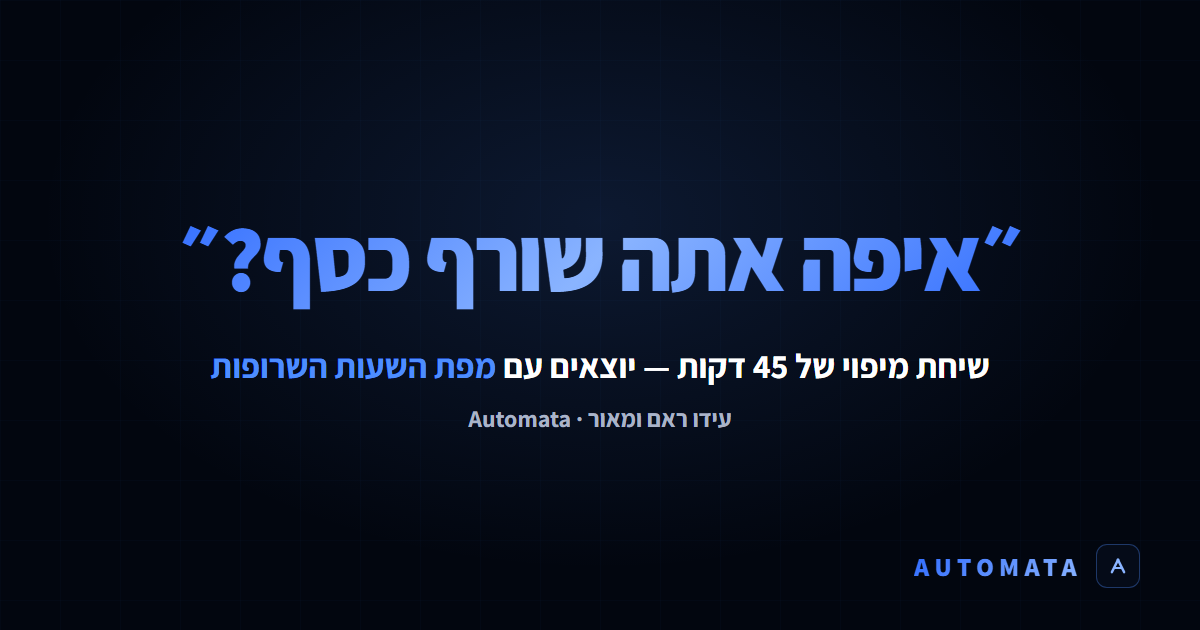
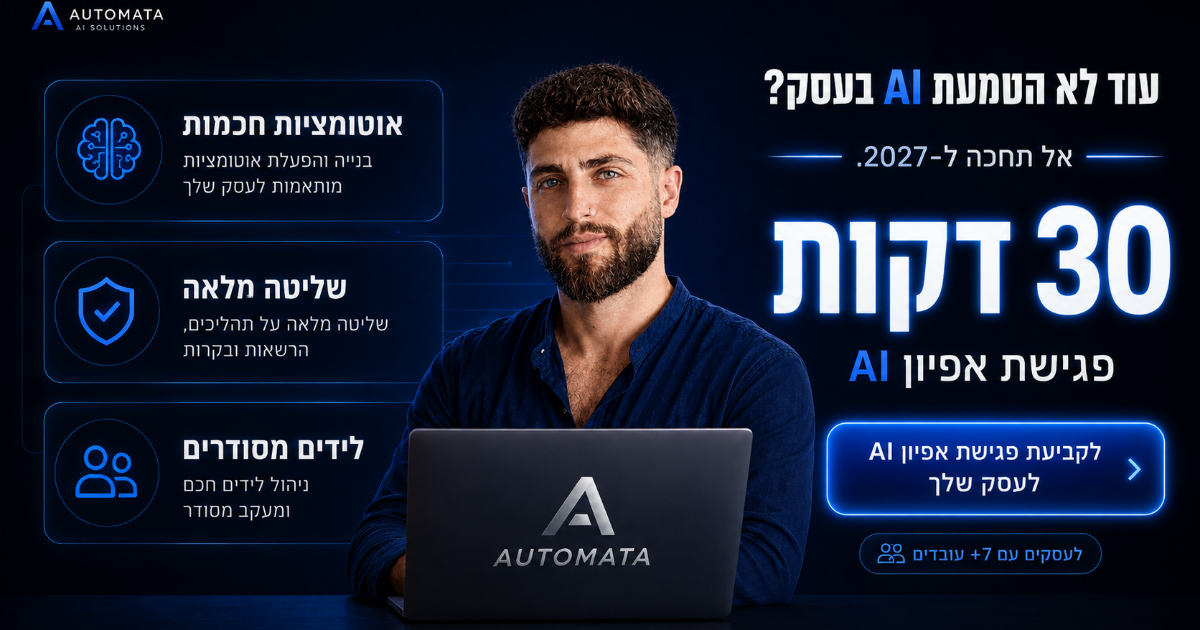
Add real hero creative to both pages; align copy to 30 minutes; new OG from creative

diff --git a/components/MockupSlot.tsx b/components/MockupSlot.tsx
@@ -1,79 +1,20 @@
+import Image from "next/image";
+import mockup from "@/assets/mockup.png";
+
 /**
- * השטח השמור למוקאפ של עידו.
- *
- * כשהמוקאפ מוכן:
- * 1. שים את הקובץ ב-public/mockup.webp (או png/jpg)
- * 2. שנה את MOCKUP_SRC למטה ל-"/mockup.webp"
- * זהו. שאר הדף לא משתנה.
+ * תמונת הנושא בהירו — נטענת בעדיפות (LCP) עם בלר-אפ,
+ * ומוגשת אוטומטית בגודל ובפורמט אופטימליים ע"י Vercel.
+ * להחלפת התמונה: פשוט מחליפים את הקובץ assets/mockup.png.
  */
-import FlowViz from "./FlowViz";
-
-const MOCKUP_SRC: string | null = null;
-
 export default function MockupSlot() {
-  if (MOCKUP_SRC) {
-    return (
-      <img
-        src={MOCKUP_SRC}
-        alt="עידו ראם — Automata"
-        style={{ width: "100%", height: "auto", display: "block" }}
-      />
-    );
-  }
-
-  // מצב ביניים מעוצב עד שהמוקאפ נכנס — נראה מכוון גם אם הדף עולה לפני התמונה
   return (
-    <div
-      style={{
-        aspectRatio: "16 / 10",
-        position: "relative",
-        display: "flex",
-        flexDirection: "column",
-        alignItems: "center",
-        justifyContent: "center",
-        gap: 14,
-        background:
-          "radial-gradient(ellipse 420px 260px at 50% 40%, rgba(77, 141, 255, 0.14) 0%, transparent 70%), linear-gradient(180deg, #060d1c 0%, #030711 100%)",
-        overflow: "hidden",
-      }}
-    >
-      <div
-        aria-hidden
-        style={{
-          position: "absolute",
-          inset: 0,
-          backgroundImage:
-            "linear-gradient(rgba(77, 141, 255, 0.05) 1px, transparent 1px), linear-gradient(90deg, rgba(77, 141, 255, 0.05) 1px, transparent 1px)",
-          backgroundSize: "40px 40px",
-        }}
-      />
-      <FlowViz />
-      <span
-        style={{
-          position: "relative",
-          fontSize: "clamp(1.6rem, 4vw, 2.6rem)",
-          fontWeight: 800,
-          letterSpacing: "0.22em",
-          background:
-            "linear-gradient(135deg, #2f6bff 0%, #8ab4ff 50%, #2f6bff 100%)",
-          WebkitBackgroundClip: "text",
-          WebkitTextFillColor: "transparent",
-          backgroundClip: "text",
-          paddingInlineStart: "0.22em",
-        }}
-      >
-        AUTOMATA
-      </span>
-      <span
-        style={{
-          position: "relative",
-          color: "#aab4c8",
-          fontSize: "clamp(0.85rem, 1.6vw, 1rem)",
-          fontWeight: 600,
-        }}
-      >
-        ארכיטקטורה טכנולוגית לעסקים
-      </span>
-    </div>
+    <Image
+      src={mockup}
+      alt="עידו ראם — פגישת אפיון AI של 30 דקות לעסק שלך | Automata"
+      priority
+      placeholder="blur"
+      sizes="(max-width: 900px) 92vw, 680px"
+      style={{ width: "100%", height: "auto", display: "block" }}
+    />
   );
 }

diff --git a/components/ThanksImageSlot.tsx b/components/ThanksImageSlot.tsx
@@ -1,68 +1,18 @@
+import Image from "next/image";
+import mockup from "@/assets/mockup.png";
+
 /**
- * השטח השמור לתמונת דף התודה.
- *
- * כשהתמונה מוכנה:
- * 1. שים את הקובץ ב-public/thanks.webp (או png/jpg)
- * 2. שנה את THANKS_SRC למטה ל-"/thanks.webp"
+ * תמונת דף התודה — אותה תמונת נושא.
+ * להחלפה בתמונה ייעודית: מוסיפים קובץ ל-assets ומעדכנים את ה-import.
  */
-import FlowViz from "./FlowViz";
-
-const THANKS_SRC: string | null = null;
-
 export default function ThanksImageSlot({ alt }: { alt: string }) {
-  if (THANKS_SRC) {
-    return (
-      <img
-        src={THANKS_SRC}
-        alt={alt}
-        style={{ width: "100%", height: "auto", display: "block" }}
-      />
-    );
-  }
-
   return (
-    <div
-      style={{
-        aspectRatio: "16 / 9",
-        position: "relative",
-        display: "flex",
-        flexDirection: "column",
-        alignItems: "center",
-        justifyContent: "center",
-        gap: 12,
-        background:
-          "radial-gradient(ellipse 480px 280px at 50% 40%, rgba(77, 141, 255, 0.16) 0%, transparent 70%), linear-gradient(180deg, #060d1c 0%, #030711 100%)",
-        overflow: "hidden",
-      }}
-    >
-      <div
-        aria-hidden
-        style={{
-          position: "absolute",
-          inset: 0,
-          backgroundImage:
-            "linear-gradient(rgba(77, 141, 255, 0.05) 1px, transparent 1px), linear-gradient(90deg, rgba(77, 141, 255, 0.05) 1px, transparent 1px)",
-          backgroundSize: "40px 40px",
-        }}
-      />
-      <FlowViz />
-      {/* בלי שורת הסלוגן — היא כבר מופיעה בפוטר שמתחת, שלא תהיה כפילות */}
-      <span
-        style={{
-          position: "relative",
-          fontSize: "clamp(1.4rem, 3.5vw, 2.2rem)",
-          fontWeight: 800,
-          letterSpacing: "0.22em",
-          background:
-            "linear-gradient(135deg, #2f6bff 0%, #8ab4ff 50%, #2f6bff 100%)",
-          WebkitBackgroundClip: "text",
-          WebkitTextFillColor: "transparent",
-          backgroundClip: "text",
-          paddingInlineStart: "0.22em",
-        }}
-      >
-        AUTOMATA
-      </span>
-    </div>
+    <Image
+      src={mockup}
+      alt={alt}
+      placeholder="blur"
+      sizes="(max-width: 900px) 92vw, 1040px"
+      style={{ width: "100%", height: "auto", display: "block" }}
+    />
   );
 }

diff --git a/lib/copy.ts b/lib/copy.ts
@@ -5,13 +5,13 @@ export const copy = {
   offerName: "מפת השעות השרופות",
   title: "מפת השעות השרופות | Automata",
   metaDescription:
-    "אתה משלם משכורות מלאות — וחלק מהן נשרפות על משימות של 2018. 45 דקות עם עידו ומאור, ויוצאים עם מפת השעות השרופות של העסק שלך. בלי עלות ובלי התחייבות.",
+    "אתה משלם משכורות מלאות — וחלק מהן נשרפות על משימות של 2018. 30 דקות עם עידו ומאור, ויוצאים עם מפת השעות השרופות של העסק שלך. בלי עלות ובלי התחייבות.",
   hero: {
     h1: "״איפה אתה שורף כסף?״",
     sub: "יש לך כמה עובדים.\nאתה משלם משכורות מלאות.\nוחלק מהן נשרפות\nעל משימות של 2018.",
     subHighlight: "משימות של 2018",
     parenthetical:
-      "(45 דקות עם עידו ראם, מייסד Automata, ומאור — הגאון הטכני שבונה את המערכות. יוצאים עם מפת השעות השרופות שלך.)",
+      "(30 דקות עם עידו ראם, מייסד Automata, ומאור — הגאון הטכני שבונה את המערכות. יוצאים עם מפת השעות השרופות שלך.)",
     cta: "קבעו לי שיחת מיפוי",
     microcopy: "מפה ביד. לא מצגת מכירה.",
   },
@@ -19,7 +19,7 @@ export const copy = {
     h2line1: "הצוות שלך עובד קשה.",
     h2line2: "השאלה על מה.",
     subtext:
-      "משאיר פרטים — חוזרים אליך בוואטסאפ.\nקובעים שיחת מיפוי: 45 דקות עם עידו ומאור.\nבשיחה מוצאים איפה העסק שלך מאבד שעות וכסף,\nואתה יוצא עם מפה ברורה — מה לתקן, ומה קודם.",
+      "משאיר פרטים — חוזרים אליך בוואטסאפ.\nקובעים שיחת מיפוי: 30 דקות עם עידו ומאור.\nבשיחה מוצאים איפה העסק שלך מאבד שעות וכסף,\nואתה יוצא עם מפה ברורה — מה לתקן, ומה קודם.",
     preCard:
       "כל חודש שעובר — עוד משכורות נשרפות על משימות של 2018.",
     submit: "קבעו לי שיחת מיפוי ←",

diff --git a/app/globals.css b/app/globals.css
@@ -28,40 +28,24 @@ body {
   color: #ffffff;
 }
 
-/* ויזואל זרימת האוטומציה בסלוטים השמורים */
-@keyframes dash-flow {
-  to {
-    stroke-dashoffset: -64;
-  }
+/* תמונת ההירו — ריחוף עדין שמסמן שהיא לחיצה */
+.mockup-link {
+  display: block;
+  cursor: pointer;
+  transition: transform 0.35s cubic-bezier(0.22, 1, 0.36, 1);
 }
 
-.flow-line {
-  stroke-dasharray: 6 10;
-  animation: dash-flow 3.2s linear infinite;
-}
-
-@keyframes node-pulse {
-  0%,
-  100% {
-    opacity: 0.55;
-    transform: scale(1);
-  }
-  50% {
-    opacity: 1;
-    transform: scale(1.12);
-  }
-}
-
-.flow-node {
-  transform-origin: center;
-  transform-box: fill-box;
-  animation: node-pulse 3s ease-in-out infinite;
+.mockup-link:hover {
+  transform: scale(1.012);
 }
 
 @media (prefers-reduced-motion: reduce) {
-  .flow-line,
-  .flow-node {
-    animation: none;
+  .mockup-link {
+    transition: none;
+  }
+
+  .mockup-link:hover {
+    transform: none;
   }
 }
 

diff --git a/components/Hero.tsx b/components/Hero.tsx
@@ -128,7 +128,7 @@ export default function Hero() {
                 "0 20px 60px rgba(0,0,0,0.5), 0 0 40px rgba(77, 141, 255, 0.18)",
             }}
           >
-            <a href="#form" style={{ display: "block", cursor: "pointer" }}>
+            <a href="#form" className="mockup-link">
               <MockupSlot />
               <span className="sr-only">— מעבר לטופס תיאום השיחה</span>
             </a>
